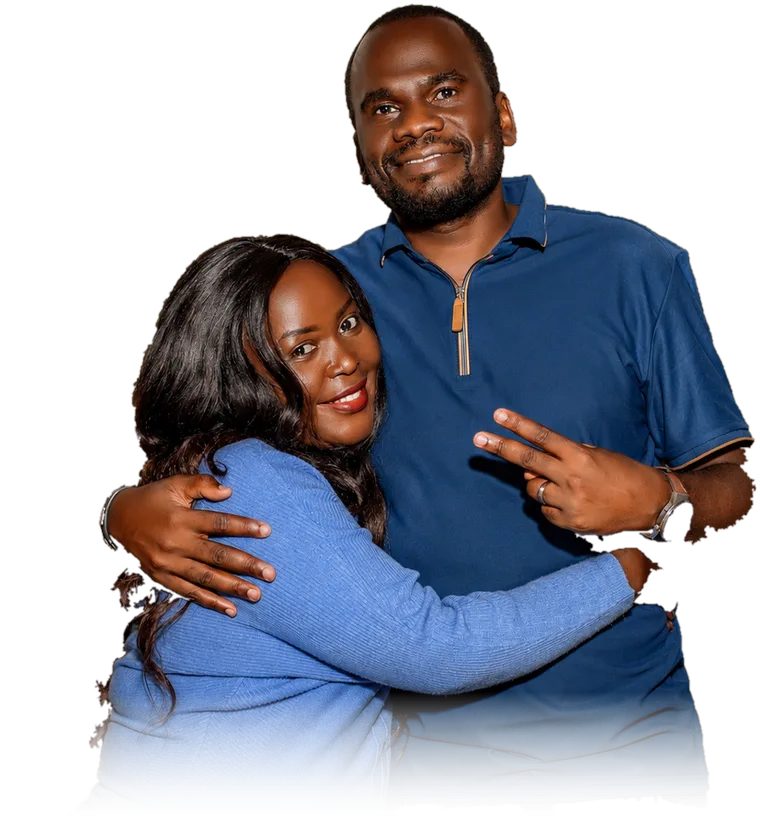
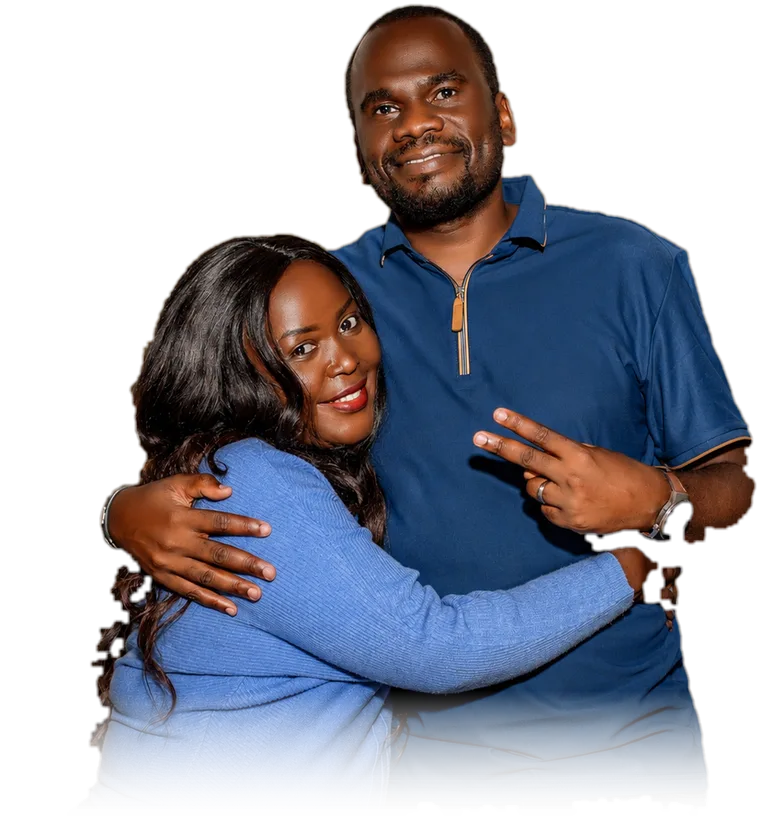
Refine leaders cut-out edges and add scroll-driven emergence
Morphological close/open on the alpha smooths the silhouette in the two
regions flagged on the card: closing fills the sawtooth notches bitten
out of his shadowed forearm (dark skin falls under the r-g skin guard),
opening strips the flyaway hair strands beside her arm that keyed into
chunky detached specks.

The portrait now rises out of its frame as the card scrolls up the
viewport — a rAF-throttled scroll handler maps position to --emerge,
eased by a .35s transform transition. Skipped under prefers-reduced-motion.

diff --git a/index.html b/index.html
@@ -234,8 +234,13 @@
     font-family:var(--ring-font);font-style:italic;font-size:200px;line-height:1;
     color:rgba(143,205,234,.08);pointer-events:none;
   }
+  /* --emerge is driven by scroll: the portrait rises out of the frame as the
+     card travels up the viewport (set in JS, 0 when fully emerged) */
   .leaders-cut{
-    position:absolute;left:50%;bottom:0;transform:translateX(-50%);
+    position:absolute;left:50%;bottom:0;
+    transform:translateX(-50%) translateY(var(--emerge,0px));
+    transition:transform .35s cubic-bezier(.22,.61,.36,1);
+    will-change:transform;
     height:124%;width:auto;max-width:none;
     filter:drop-shadow(0 22px 34px rgba(5,8,24,.6));
   }
@@ -868,6 +873,24 @@
     const y = scrollY;
     glows.forEach((g,i) => g.style.transform = `translateY(${y * (i ? -.06 : .1)}px)`);
   }, {passive:true});
+
+  // leaders portrait emerges from its frame as the card scrolls up the viewport
+  const leaders = document.querySelector('.leaders');
+  if (leaders && !reduce) {
+    const lbox = leaders.querySelector('.leaders-box');
+    let queued = false;
+    const emerge = () => {
+      queued = false;
+      const r = lbox.getBoundingClientRect();
+      const p = Math.min(1, Math.max(0, (innerHeight - r.top) / (innerHeight * .78)));
+      leaders.style.setProperty('--emerge', ((1 - p) * r.height * .16).toFixed(1) + 'px');
+    };
+    addEventListener('scroll', () => {
+      if (!queued) { queued = true; requestAnimationFrame(emerge); }
+    }, {passive:true});
+    addEventListener('resize', emerge, {passive:true});
+    emerge();
+  }
 </script>
 
 </body>

diff --git a/README.md b/README.md
@@ -8,7 +8,7 @@ A single-page church website for **Ginomai Global Ministries**.
 - **Palette** (from the church logo): deep navy `#151B4E`, royal navy `#212A6B`, brush sky-blue `#8FCDEA`, mist `#DCEEF9`, gold `#F4C63F`
 - **Signature element**: the gold brush ring from the logo's "O", drawn animatedly around the word *Become* in the hero and repeated as section markers
 - **Hero photo bed**: six ministry photos in `assets/hero/` crossfade on a 42s loop (7s each) with a slow left→right drift, layered *under* the navy gradient, glows and γίνομαι watermark at 46% opacity behind a navy scrim — the brand ground stays dominant. Per-slide framing is set inline with `--pos` (`object-position`); the branded banner shots are biased right so their baked-in logo text stays out of frame.
-- **Leaders card** (About section): `assets/leaders.webp` is a background-masked cut-out of Ap. Kenneth & Ap. Agnes Bamuleta. It sits in the card frame with their heads breaking past the top edge — `.leaders-clip` uses `clip-path: inset(-70% 0 0 0 round 22px)` so the sides and bottom clip to the frame while the top stays open. The backdrop was keyed with a border-seeded flood fill using a *local* tolerance, guarded by two measured rules (`b−r > 2` = blue garment, `r−g > 34` = skin) that stop the fill dead at clothing and skin; backdrop `r−g` measures ~14, skin 52–75. No erosion — a soft-alpha gamma thins the rim instead, so hair survives.
+- **Leaders card** (About section): `assets/leaders.webp` is a background-masked cut-out of Ap. Kenneth & Ap. Agnes Bamuleta. It sits in the card frame with their heads breaking past the top edge — `.leaders-clip` uses `clip-path: inset(-70% 0 0 0 round 22px)` so the sides and bottom clip to the frame while the top stays open. The backdrop was keyed with a border-seeded flood fill using a *local* tolerance, guarded by two measured rules (`b−r > 2` = blue garment, `r−g > 34` = skin) that stop the fill dead at clothing and skin; backdrop `r−g` measures ~14, skin 52–75. No erosion — a soft-alpha gamma thins the rim instead, so hair survives. A morphological close/open pass then smooths the silhouette: closing fills the sawtooth notches where his shadowed forearm falls under the skin guard, opening strips flyaway hair strands that key into chunky specks. The portrait also rises out of its frame on scroll — JS maps the card's viewport position to `--emerge`, disabled under reduced motion.
 - **Motion**: page-load stagger, scroll-triggered reveals, parallax glows, marquee, hover micro-interactions — all disabled under `prefers-reduced-motion` (the hero holds a single still frame)
 - Fully responsive (desktop → mobile with hamburger nav), no build step, no external dependencies
 
